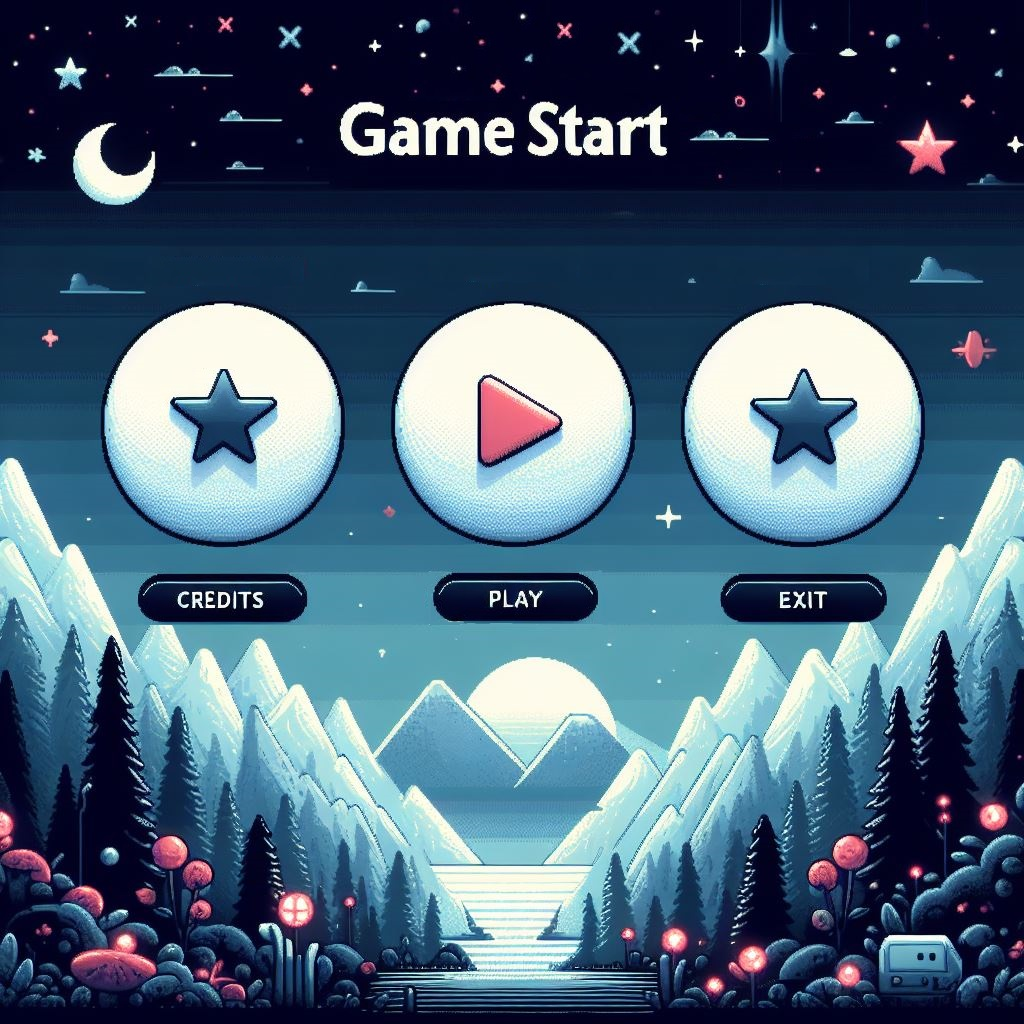
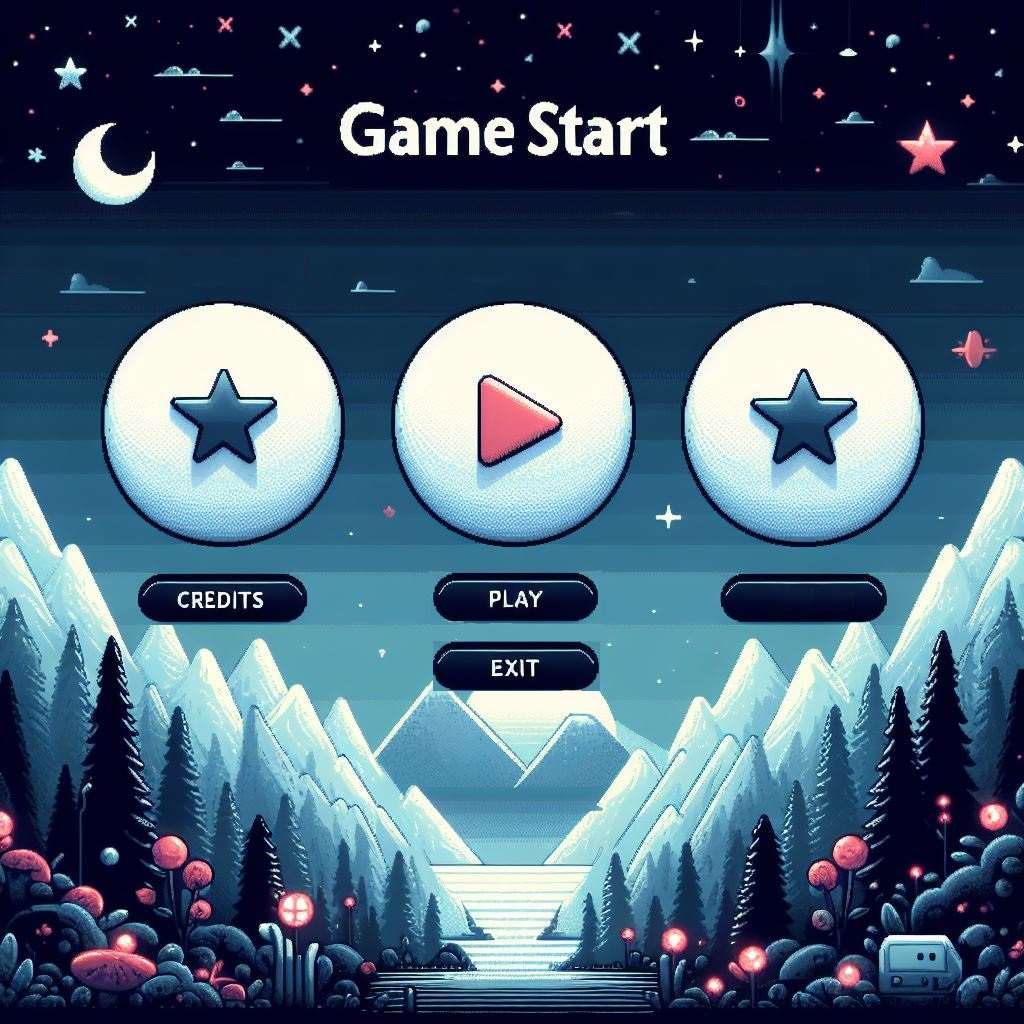
add score screen

Changed region(s): [[0.4062, 0.625, 0.5938, 0.6875], [0.75, 0.5625, 0.8125, 0.5938]]

diff --git a/src/GameManager.py b/src/GameManager.py
@@ -1,6 +1,7 @@
 import pygame, random, time
 from .Resources.StartScreen import StartScreen
-from .Resources import InputManager, WindowsManager
+from .Resources.ScoreScreen import ScoreScreen
+from .Resources import InputManager, WindowsManager, CImage
 from .GameObjects import Game
 from data import BLOCK_SIZE
 
@@ -20,6 +21,8 @@ class GameManger:
         random.seed(time.time())
         pygame.init()
         self.__state_game = "start_screen"
+        self.__resources_manager = CImage
+        self.__score_screen = ScoreScreen(self.__resources_manager)
         self.__game = Game()
         self.__input_manager = InputManager()
         self.__start_screen = StartScreen()
@@ -32,10 +35,11 @@ class GameManger:
         - Check for a state transition from the start screen to the game screen.
         - If in the game screen state, update the game.
         """
-        new_state = self.__start_screen.update(self.__input_manager)
+        new_state = self.__start_screen.update()
         if new_state == "game_screen":
             self.__state_game = "game_screen"
             self.__game.update(self.__input_manager)
+        self.__input_manager.update()
             
 
     def render(self) -> None:
@@ -48,16 +52,31 @@ class GameManger:
         - Update the display.
         """
         self.__windows_manager.clear_screen()
+
         if self.__state_game == "start_screen":
-            self.__windows_manager.clear_screen()
-            self.__start_screen.render(self.__windows_manager)
-            self.__windows_manager.update_display()
+            self.render_start_screen()
         elif self.__state_game == "game_screen":
-            self.__windows_manager.clear_screen()
             self.__game.render(self.__windows_manager)
-            self.__windows_manager.update_display()
-        elif self.__state_game == "gameover_screen":
-            pass
+        elif self.__state_game == "crendits_screen":
+            self.render_credits_screen()
+        elif self.__state_game == "score_screen":
+            self.render_score_screen()
+
+        self.__windows_manager.update_display()
+
+    def render_start_screen(self) -> None:
+        self.__windows_manager.clear_screen()
+        self.__start_screen.render(self.__windows_manager)
+        self.__windows_manager.update_display()
+
+    def render_credits_screen(self) -> None:
+        self.__windows_manager.clear_screen()
+        self.__credit_screen.render(self.__windows_manager)
+        self.__windows_manager.update_display()
+
+    def render_score_screen(self) -> None:
+        self.__windows_manager.clear_screen()
+        self.__score_screen.render(self.__windows_manager)
         self.__windows_manager.update_display()
 
     def destroy(self) -> None:

diff --git a/src/Resources/ScoreScreen.py b/src/Resources/ScoreScreen.py
@@ -1,0 +1,66 @@
+import os
+import json
+import pygame
+
+class ScoreScreen:
+    def __init__(self, resource_manager) -> None:
+        self.__name = "name"
+        self.__score = "score"
+        self.__resources_manager = resource_manager
+
+    def get_info_player(self) -> None:
+        return {"name": self.__name, "score": self.__score}
+
+    def save_score(self, player_name, score) -> None:
+        if os.path.exists("data/score.json"):
+            with open("data/score.json", "r") as file:
+                scores = json.load(file)
+        else:
+            scores = []
+
+        for player in scores:
+            if player["name"] == player_name:
+                player["score"] = score
+                break
+        else:
+            scores.append(ScoreScreen(player_name, score).get_info_player())
+
+        with open("data/score.json", "w") as file:
+            json.dump(scores, file, indent=4)
+
+    def load_score(self) -> None:
+        if os.path.exists("data/score.json"):
+            with open("data/score.json", "r") as file:
+                scores = json.load(file)
+            return scores
+        else:
+            return []
+    
+    # Render para test
+    def render(self, windows_manager) -> None:
+        scores = self.load_score()
+        self.__resources_manager.load_img("src/Resources/Images/score_screen.png")
+        self.__resources_manager.draw(windows_manager.get_screen(), "score_screen", position=(0, 0))
+        windows_manager.update_display()
+
+        font = pygame.font.Font(None, 100)
+        player_test = "1, PlayerName: 9999"
+        text_surface = font.render(player_test, True, (0, 0, 0))
+        text_rect = text_surface.get_rect(center=(windows_manager.get_screen().get_width() // 2, 670))
+        windows_manager.get_screen().blit(text_surface, text_rect)
+        
+
+        # El render bueno
+"""    def render(self, windows_manager) -> None:
+        scores = self.load_score()
+        self.__resources_manager.load_img("src/Resources/Images/score_screen.png")
+        self.__resources_manager.draw(windows_manager.get_screen(), "score_screen", position=(0, 0))
+        windows_manager.update_display()
+
+        font = pygame.font.Font(None, 40)
+        for index, player in enumerate(scores, start=1):
+            player_inf = f"{index}, {player['name']}: {player['score']}"
+            text_surface = font.render(player_inf, True, (0, 0, 0))
+            text_rect = text_surface.get_rect(center=(windows_manager.get_screen().get_width() // 2,
+                                                      100 + index * 40))
+            windows_manager.get_screen().blit(text_surface, text_rect)"""

diff --git a/src/Resources/StartScreen.py b/src/Resources/StartScreen.py
@@ -16,7 +16,7 @@ class StartScreen:
         self.__image_handler = CImage()
         self.__input_manager = InputManager()
 
-    def update(self, input: InputManager) -> str:
+    def update(self) -> str:
         """
         Upadate the start screen state based on user input.
 
@@ -26,12 +26,20 @@ class StartScreen:
         Returns:
             str: The new state based on user input.
         """
-        mouse_x, mouse_y = input.mouse_position()
-        click = input.mouse_pressed()
+        mouse_x, mouse_y = self.__input_manager.mouse_position()
+        click = self.__input_manager.mouse_pressed()
         new_state = "start_screen"
         if 452 < mouse_x < 580 and 582 < mouse_y < 617 and click:
             new_state = "game_screen"
+        elif 156 < mouse_x < 289 and 584 < mouse_y < 616 and click:
+            new_state = "credits_screen"
             print("changed to {}".format(new_state))
+        elif 738 < mouse_x < 869 and 582 < mouse_y < 619 and click:
+            new_state = "score_screen"
+            print("changed to {}".format(new_state))
+        elif 450 < mouse_x < 582 and 646 < mouse_y < 688 and click:
+            # TODO: Check Event Quit Here
+            pygame.quit()
         return new_state
 
 
@@ -45,5 +53,5 @@ class StartScreen:
         windows_manager.get_screen().fill(self.__bg_color)
         self.__image_handler.load_img("src/Resources/Images/start_screen.png")
         self.__image_handler.draw(windows_manager.get_screen(), "start_screen", position=(0, 0))
-        pygame.display.flip()
+        windows_manager.update_display()
         self.__input_manager.update()

diff --git a/src/Resources/InputManager.py b/src/Resources/InputManager.py
@@ -49,6 +49,8 @@ class InputManager:
                 pygame.quit()
             elif event.type == pygame.KEYDOWN:
                 self.__keys.add(event.key)
+            elif event.type == pygame.KEYUP:
+                self.__keys.discard(event.key)
             elif event.type == pygame.MOUSEBUTTONDOWN:
                 self.mouse_pressed()
      
